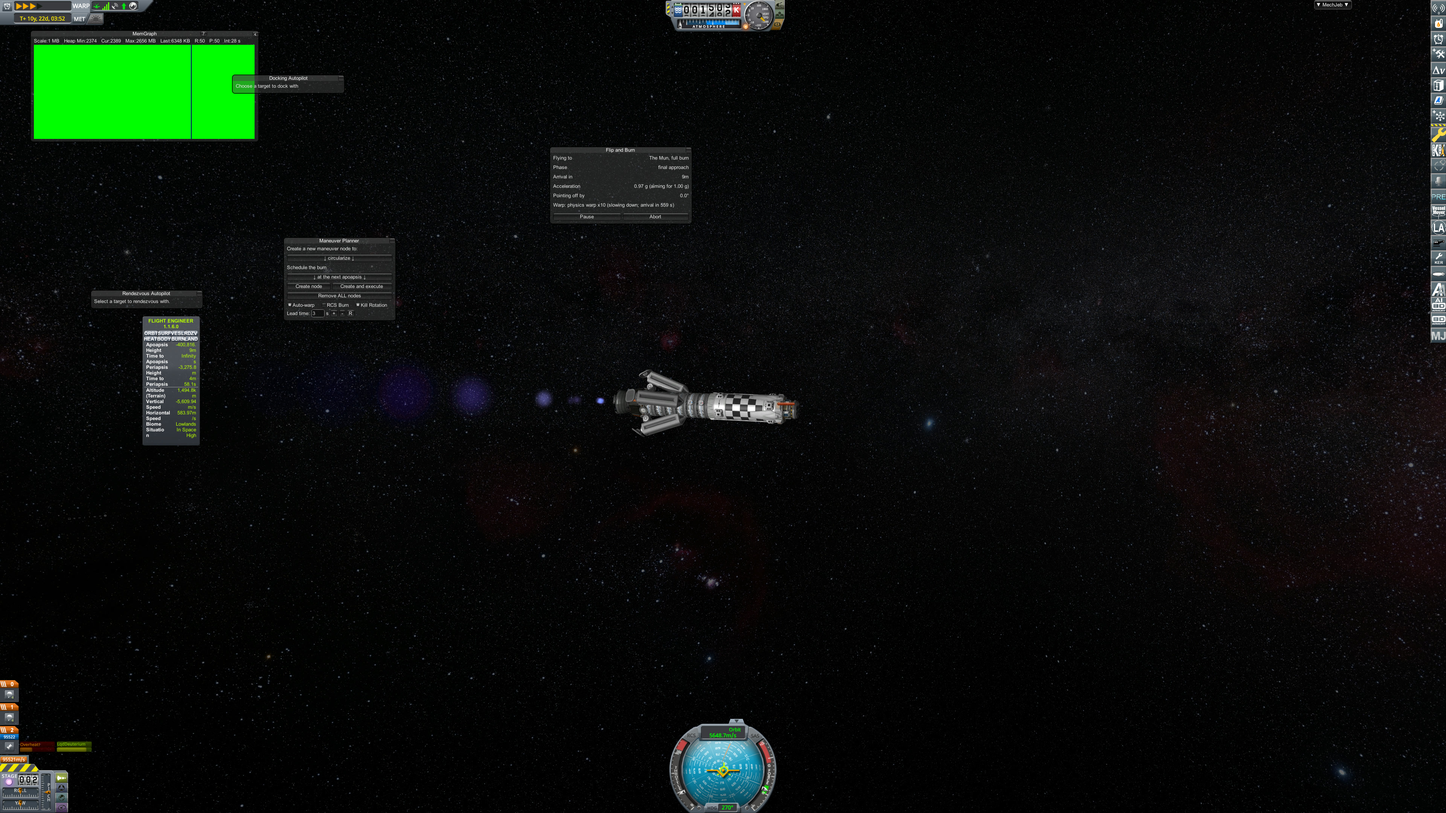
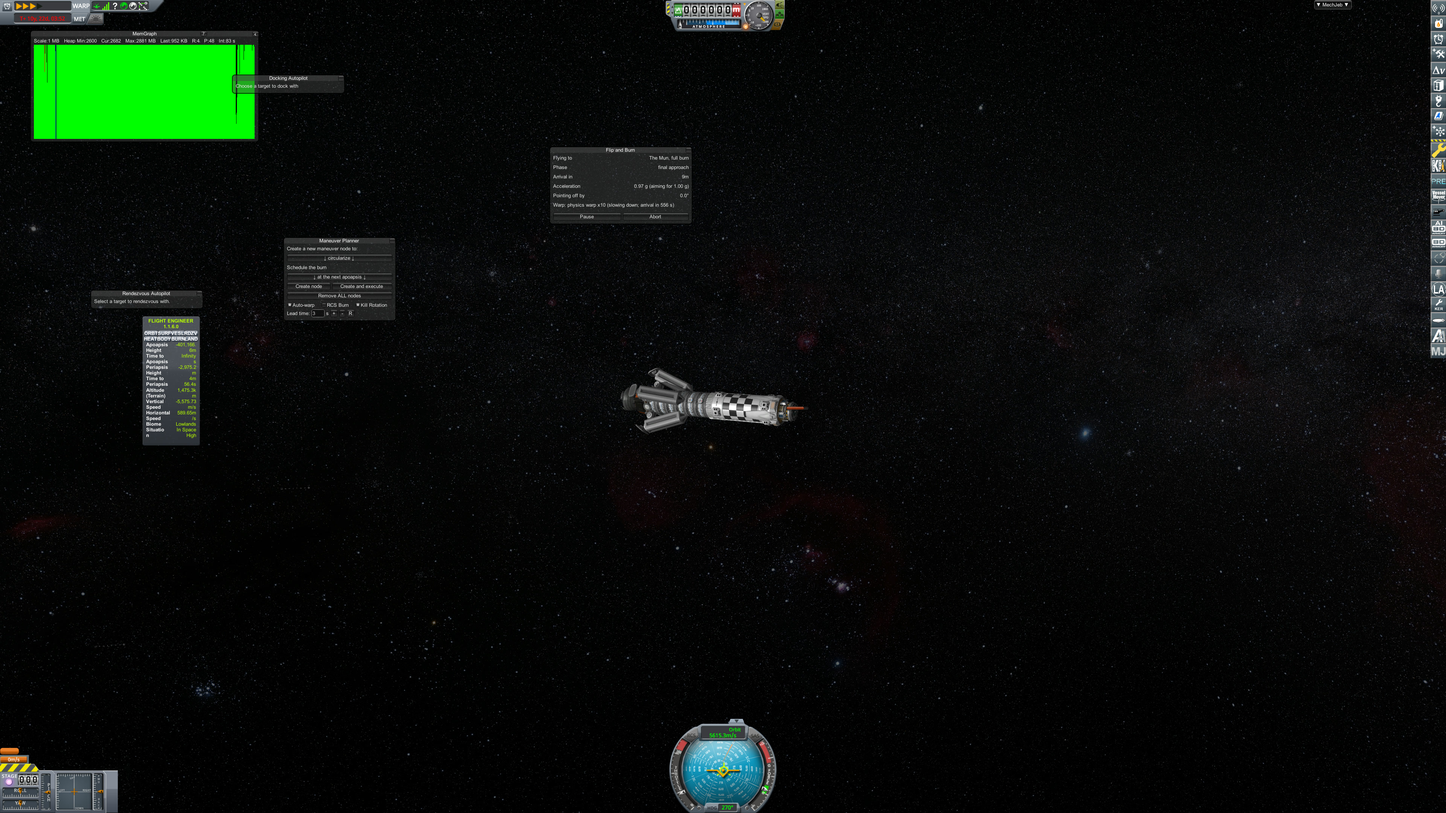
Cycle 14 evidence on the final build: moon trips, Tylo coast, Jool; the braking line pictured
The moon trips, a coast trip from Jool orbit to Tylo and a full burn to Jool at
1 g, flown on the final build, all arrived cleanly (evidence page). The trip
window's braking-headroom line is pictured on a short trip from Laythe to Jool
(Ways to fly).

diff --git a/docs/test-evidence/cycle-14-moon-trips.md b/docs/test-evidence/cycle-14-moon-trips.md
@@ -5,7 +5,56 @@ orbit around Kerbin. The lines below are copied from KSP.log as the test helper 
 After each of the three launches the run's own check found MechJeb's settings, BetterTimeWarp's and KSP's settings.cfg identical to
 before, and no file in any other save changed.
 
-## The first launch: to the Mun, back to Kerbin, on to Minmus
+## The final build (cycle 15 review, 2026-11-06)
+
+The review found the last burn covering for braking that ran out of thrust in strong gravity (ADR 0005, addendum). The
+fixes change the guidance for every trip, so the moon trips, a Tylo coast trip and a Jool arrival were flown again on the
+final build. Each started from the test copy's own quicksave. After each launch, MechJeb's, BetterTimeWarp's and KSP's
+settings were checked identical to before.
+
+The moon trips flew on build 2753209. The changes after it change none of their commands: how a coast plan counts
+deep-well braking (61dd0a6) touches coast plans only where the braking is planned below 99 % (the Minmus coast keeps
+99 %), and the braking reason's own line in the trip window (36dc9a5) is display only. The Tylo coast trip's plan does
+change with 61dd0a6, so it was flown again on it. The trip window's braking line was moved onto its own row after the Jool
+trip (36dc9a5, display only), and photographed on a short trip from Laythe to Jool on the final build.
+
+| Trip | Orbit | Time against the plan at Start |
+|---|---|---|
+| Kerbin to the Mun, full burn at 1 g, cut-flip-relight (waited 15 min) | 19.91 × 20.11 km, planned 20 | +30 s (+1.0 %) |
+| The Mun back to Kerbin, full burn at 1 g, skew flip (waited 22 min; braking with headroom for Kerbin's pull) | 79.58 × 80.26 km, planned 80 | +78 s (+2.3 %) |
+| Kerbin to Minmus, coast at 1 g, fuel counted (lowered to 25 km/s) | 19.75 × 20.01 km, planned 20 | +21 s (+0.3 %), 14.3 % of the delta-v left |
+| Jool orbit to Tylo, coast at 1 g, fuel counted (lowered to 30 km/s; build 2753209) | 29.82 × 30.16 km, planned 30 | +38 s (+0.5 %), 11.8 % left |
+| Jool orbit to Tylo, coast at 1 g, fuel counted (final build) | 29.83 × 30.18 km, planned 30 | +34 s (+0.4 %), 14.7 % left |
+| Kerbin to Jool, full burn at 1 g, cut-flip-relight (build ab21c04) | 219.35 × 220.11 km, planned 220 | +8 s over 8 days 5 hours (+0.004 %) |
+| Laythe orbit to Jool, full burn at 1 g (final build; set-orbit cheat, test copy) | 217.36 × 223.58 km, planned 220 | +61 s (+1.6 %) |
+
+All arrived cleanly: engine off, out of warp before the last burn, MechJeb's settings identical apart from window sizes,
+and the engine at zero whenever the ship pointed more than 5° off (outside the skew flip).
+
+**The Tylo coast trip** needs the Bebop near Jool, which the test copy doesn't have: KSP's own set-orbit cheat (test copy
+only) put it in a 220 km orbit around Jool, and its propellant was lowered in memory so the trip had to coast. Before the
+fixes the same trip, flown watched in the game, arrived at 29.85 × 30.07 km; in the simulator its last burn took 727 s.
+
+**The Jool trip** is the planet arrival that overspeeded in the simulator (955 m/s at the last burn, now 29). It braked at
+0.850 g for 28 hours, the law rising to 0.89 g in the last minutes, and arrived 8 seconds after the time planned at Start.
+While it braked the window read "0.85 g (aiming for 0.85 g: braking leaves spare push for Jool's gravity)" in one row
+(`trip-j-4-slow-down.jpg`); the label column was squeezed, so the reason now has its own line. On the final build, braking
+into Jool from Laythe (`jool-row-5-arriving.jpg`; `docs/images/trip-braking-headroom.jpg` for Ways to fly):
+
+```
+Acceleration        0.84 g (aiming for 0.85 g)
+Aiming below 1.00 g: braking leaves spare push for Jool's gravity. The engines aren't overheating.
+```
+
+The Laythe trip used KSP's set-orbit cheat (test copy only) to put the Bebop 500 km above Laythe.
+
+Pictures: `tylo-coast-1-start.jpg`, `-3-coast.jpg`, `-5-arriving.jpg`, `-6-final-orbit-map.jpg`; the moon trips as below;
+`trip-j-1-start.jpg`, `-3-flip.jpg`, `-4-slow-down.jpg`, `-5-arriving.jpg`, `-6-final-orbit-map.jpg`; `jool-row-5-arriving.jpg`,
+`-6-final-orbit-map.jpg`.
+
+## Before the review's fixes
+
+### The first launch: to the Mun, back to Kerbin, on to Minmus
 
 Three trips back to back on one ship, with nothing touched in between. Trips 1 and 2 used the test-only cheats infinite
 propellant and ignore max temperature (the Bebop's drive holds about 0.45 g cool, and leaving a low Kerbin orbit needs
@@ -18,7 +67,7 @@ moon trips: orbiting Kerbin; Fly to: Moons of Kerbin: Mun, Minmus; Planets: Moho
 moon trips: orbiting Mun; Fly to: The Mun's planet: Kerbin; Other moons of Kerbin: Minmus | note: To fly to another planet, get into orbit around Kerbin first: Flip and Burn doesn't fly from a moon straight to another planet yet.
 ```
 
-### Trip 1: Kerbin orbit to the Mun, full burn at 1 g, cut, flip, relight
+#### Trip 1: Kerbin orbit to the Mun, full burn at 1 g, cut, flip, relight
 
 ```
 trip M1: waiting in orbit for the departure window, burn in 936 s; planner said 2960 s for the whole trip
@@ -31,7 +80,7 @@ trip M1: MechJeb settings files before Start and after arrival: identical apart 
 trip M1: ARRIVED CLEANLY (engine off True)
 ```
 
-### Trip 2: the Mun back to Kerbin orbit, full burn at 1 g with a skew flip
+#### Trip 2: the Mun back to Kerbin orbit, full burn at 1 g with a skew flip
 
 ```
 trip M2: waiting in orbit for the departure window, burn in 1299 s; planner said 3357 s for the whole trip
@@ -47,13 +96,13 @@ Kerbin was between the ship and the Mun at the start of trip 1, and the Mun betw
 trip 2. Both waited in orbit, engine off and on time warp, then burned. The skew flip fired through the turn by design;
 everywhere else the engine was at zero whenever the ship pointed more than 5° off.
 
-### Trip 3 in the first launch
+#### Trip 3 in the first launch
 
 It flew to Minmus and arrived cleanly (19.91 × 20.02 km), but it didn't really coast. With fuel counted, the Bebop
 carries 116 km/s of delta-v, and with that much the fastest coast trip is a full burn: the planner says so ("nothing to
 coast"). The run stopped there because the coast picture couldn't be taken.
 
-## The second launch: the coast trip to Minmus
+### The second launch: the coast trip to Minmus
 
 The Bebop's propellant was lowered in memory (test copy) until the planner read 25 km/s at 1 g, about half what a full
 burn to Minmus takes, so the trip had to coast. Fuel was counted; only ignore max temperature was on.
@@ -72,7 +121,7 @@ trip M3: ARRIVED CLEANLY (engine off True)
 
 It kept more than the 10 % reserve (14.1 % left), and made one course correction on the way.
 
-## The third launch: the Bebop to the Mun with real heat
+### The third launch: the Bebop to the Mun with real heat
 
 The trip a player flies first: the Bebop from its Kerbin orbit to the Mun at 1 g, full burn, **fuel counted and no
 cheats**. The planner's warp choice was set to its default, 10x, for the run and put back afterwards. The Bebop's orbit in
@@ -97,6 +146,8 @@ braking ran at normal speed: the drive stayed near its heat limit, where the hea
 
 ## Pictures
 
+The moon-trip pictures below are from the final build's launch (the same names as before the fixes).
+
 | Trip | Planner | On the way | Flip or coast | Arrival, map view |
 |---|---|---|---|---|
 | 1, to the Mun | `moon-1-mun-1-start.jpg` | `moon-1-mun-2-waiting.jpg`, `-2-mid-burn`, `-5-arriving` | `moon-1-mun-3-flip.jpg` | `moon-1-mun-6-final-orbit-map.jpg` |
@@ -105,7 +156,7 @@ braking ran at normal speed: the drive stayed near its heat limit, where the hea
 
 ## Not tested in the game
 
-- Duna, Jool and the Outer Planets Mod moons (only the simulator flew them).
+- Duna's moon and the Outer Planets Mod moons (only the simulator flew them); of Jool's, only Tylo, from a cheat-set orbit.
 - A detour around a planet.
 - A moon to a sibling moon.
 - Pause and resume, and save and load, during a moon trip.

diff --git a/docs/ways-to-fly.md b/docs/ways-to-fly.md
@@ -35,8 +35,11 @@ to hold the ship up against the planet's pull as well as slow it down, and that 
 ship would reach its parking orbit going too fast.
 
 While it brakes, the trip window's **Acceleration** row shows the lower aim, and the line under it says why in plain
-words, for example "Aiming below 1.00 g: braking leaves spare push for Jool's gravity. The engines aren't overheating."
-Overheating is said separately, in a message, as below. The planner's trip time and fuel already allow for it: braking more gently takes a little longer
+words. Overheating is said separately, in a message, as below.
+
+<p align="center">
+  <img src="images/trip-braking-headroom.jpg" alt="The trip window braking into Jool at 1 g: Acceleration 0.84 g (aiming for 0.85 g), and under it: Aiming below 1.00 g: braking leaves spare push for Jool's gravity. The engines aren't overheating." width="55%">
+</p> The planner's trip time and fuel already allow for it: braking more gently takes a little longer
 and uses a little less fuel.
 
 ### What overheating does
